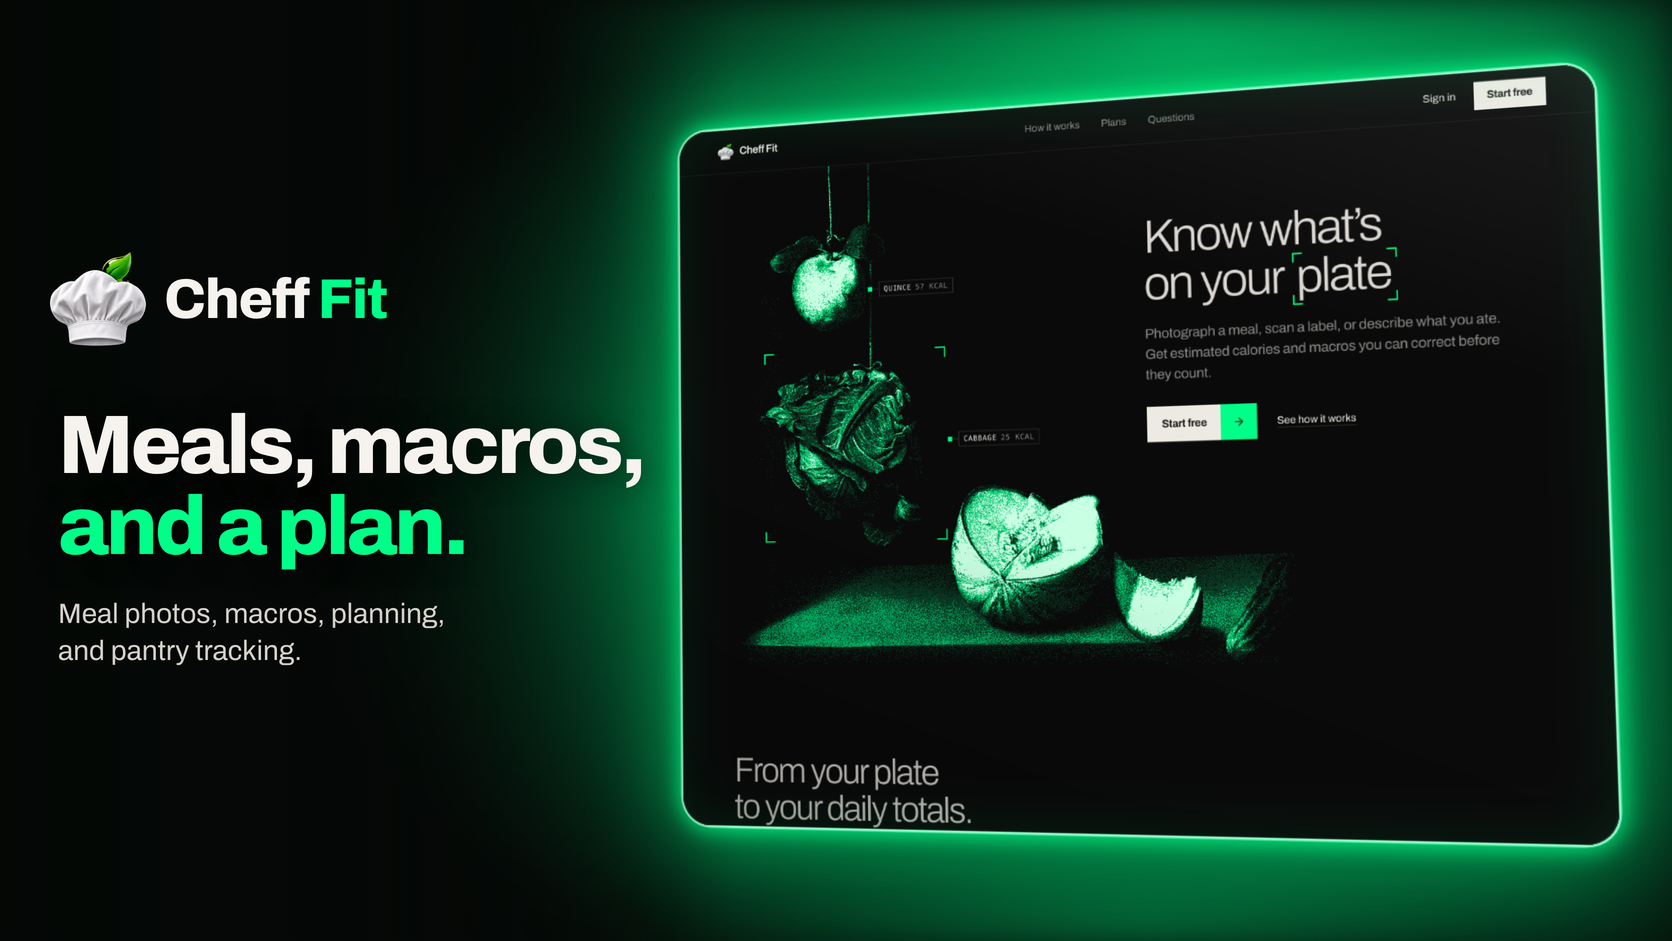
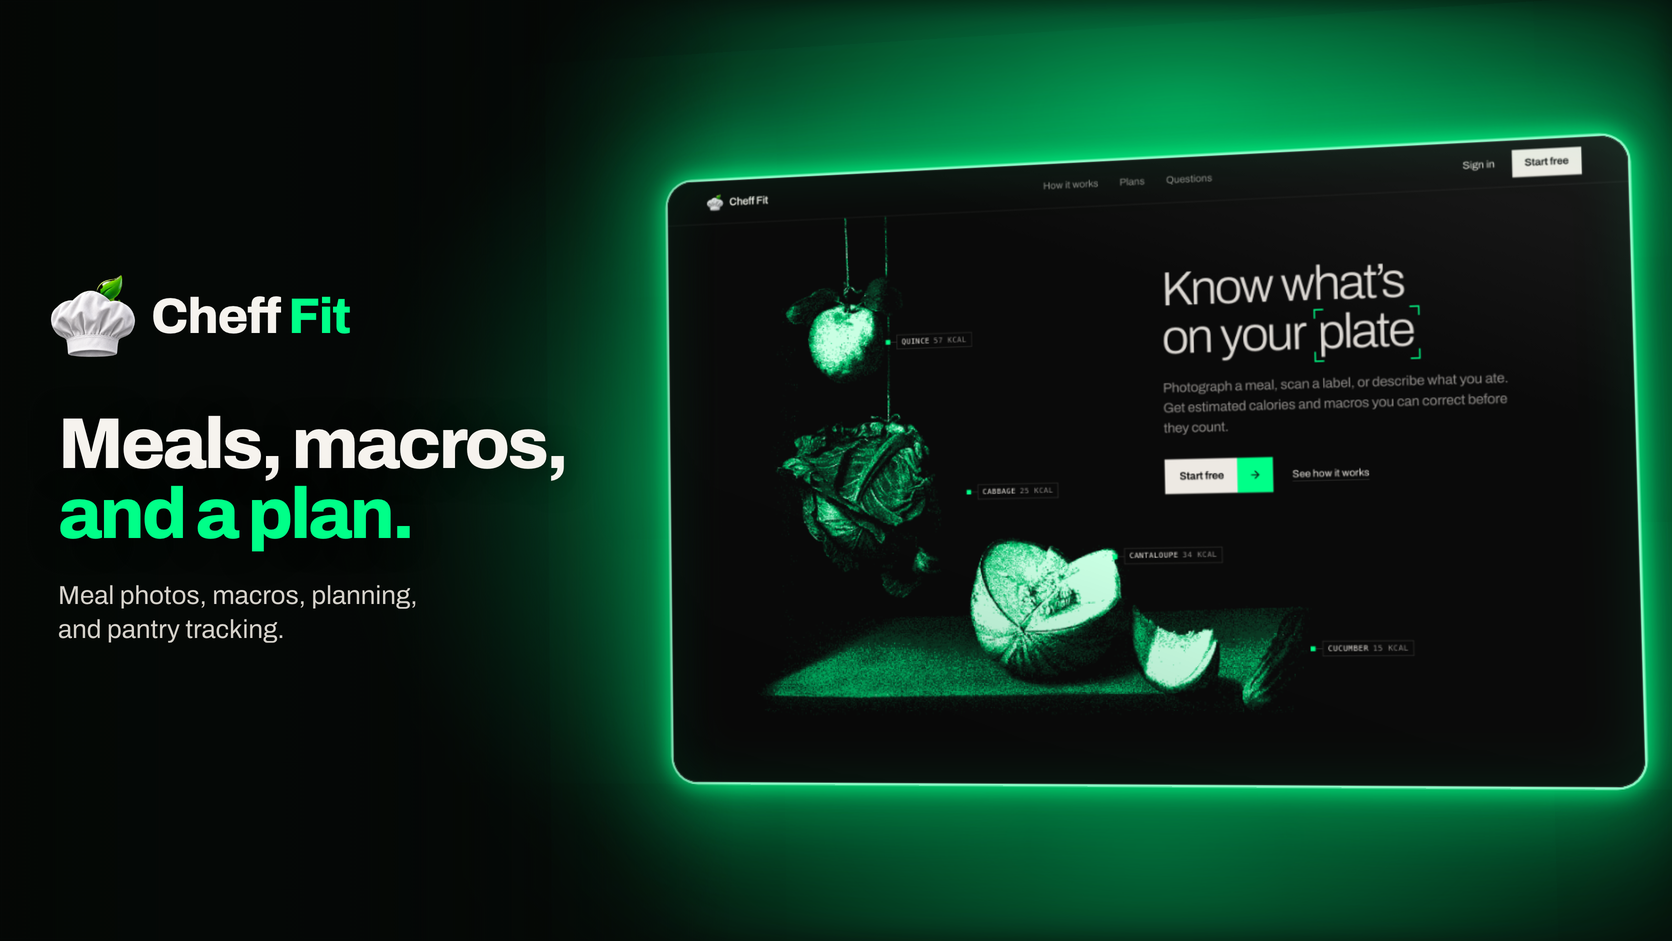
Cheff Fit project card: wider homepage window with more room around the headline, matching the other cards

Changed region(s): [[0.0311, 0.0, 1.0, 0.9862], [0.0311, 0.2774, 0.2488, 0.4006]]

diff --git a/projects/index.html b/projects/index.html
@@ -40,7 +40,7 @@
         <div class="project-tools"><input id="project-search" class="project-search" type="search" placeholder="Search projects" aria-label="Search projects"><div class="project-filters" role="group" aria-label="Filter projects"><button type="button" data-filter="all" aria-pressed="true">All</button><button type="button" data-filter="security" aria-pressed="false">Security</button><button type="button" data-filter="automation" aria-pressed="false">AI &amp; automation</button><button type="button" data-filter="systems" aria-pressed="false">Systems</button><button type="button" data-filter="apps" aria-pressed="false">Apps</button></div></div>
         <div class="project-grid">
           <article class="project-card" data-category="automation"><a href="https://pargus.app/"><img src="/assets/projects/thumbnails/pargus.webp" alt="Pargus task board and agent activity, with the headline A meta-harness for agentic task management." width="1536" height="864" loading="eager" decoding="async"><p class="project-meta">AI &amp; automation</p><h2>Pargus</h2><p>A task board, linked notes, and shared memory for you and your coding agents, in one desktop app.</p><p class="project-destination">Visit website <span aria-hidden="true">&nearr;</span></p></a></article>
-          <article class="project-card" data-category="apps"><a href="https://cheff.fit"><img src="/assets/projects/thumbnails/cheff.webp?v=2026111202" alt="The Cheff Fit homepage, a stippled still life with calorie tags, beside the headline Meals, macros, and a plan." width="1536" height="864" loading="eager" decoding="async"><p class="project-meta">Apps</p><h2>Cheff.fit</h2><p>Meal photos, macro tracking, meal planning, and kitchen inventory.</p><p class="project-destination">Visit website <span aria-hidden="true">&nearr;</span></p></a></article>
+          <article class="project-card" data-category="apps"><a href="https://cheff.fit"><img src="/assets/projects/thumbnails/cheff.webp?v=2026111203" alt="The Cheff Fit homepage, a stippled still life with calorie tags, beside the headline Meals, macros, and a plan." width="1536" height="864" loading="eager" decoding="async"><p class="project-meta">Apps</p><h2>Cheff.fit</h2><p>Meal photos, macro tracking, meal planning, and kitchen inventory.</p><p class="project-destination">Visit website <span aria-hidden="true">&nearr;</span></p></a></article>
           <article class="project-card" data-category="apps"><a href="https://moviepickr.site"><img src="/assets/projects/thumbnails/moviepickr.webp?v=20261023" alt="Moviepickr homepage with movie posters, movie night action, and a room code field." width="1536" height="864" loading="eager" decoding="async"><p class="project-meta">Apps</p><h2>Moviepickr</h2><p>A movie night picker. Everyone swipes on their phone; the first shared yes wins.</p><p class="project-destination">Visit website <span aria-hidden="true">&nearr;</span></p></a></article>
           <article class="project-card" data-category="automation"><a href="https://hammurabi.menzo.dev/"><img src="/assets/projects/thumbnails/hammurabi.webp?v=20261023" alt="Hammurabi live caption overlay with original speech and its translation." width="1536" height="864" loading="eager" decoding="async"><p class="project-meta">AI &amp; automation</p><h2>Hammurabi</h2><p>Free live captions and translation for system audio and your microphone, read aloud if you like, as a local tray app for Windows, macOS and Linux.</p><p class="project-destination">Visit website <span aria-hidden="true">&nearr;</span></p></a></article>
           <article class="project-card" data-category="automation"><a href="https://babil.menzo.dev/"><img src="/assets/projects/thumbnails/babil.webp?v=20261023" alt="Babil browser video with original and translated live captions." width="1536" height="864" loading="lazy" decoding="async"><p class="project-meta">AI &amp; automation</p><h2>Babil</h2><p>Live translated captions for any browser video, running locally with Whisper, and can read the translation aloud.</p><p class="project-destination">Visit website <span aria-hidden="true">&nearr;</span></p></a></article>
